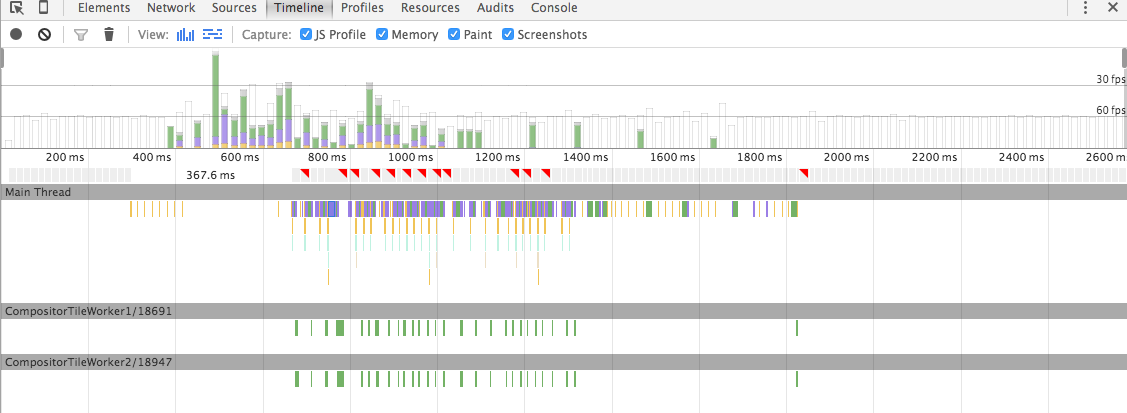
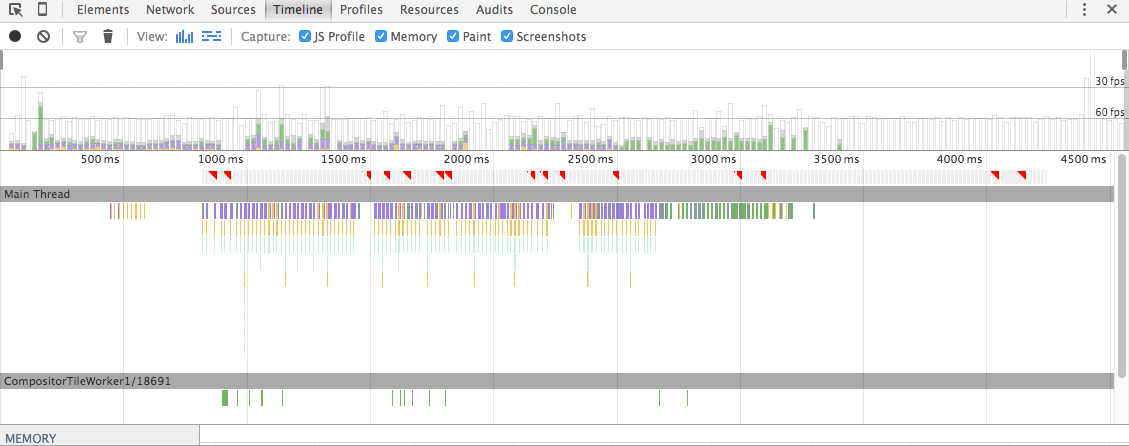
improve css and update result

Changed region(s): [[0.0, 0.0581, 1.0, 1.0], [0.0, 0.0, 0.528, 0.0291], [0.9317, 0.0, 0.9938, 0.0291]]

diff --git a/views/js/main.js b/views/js/main.js
@@ -1,3 +1,4 @@
+'use strict';
 /*
 Welcome to the 60fps project! Your goal is to make Cam's Pizzeria website run
 jank-free at 60 frames per second.
@@ -18,6 +19,8 @@ cameron *at* udacity *dot* com
 
 // As you may have realized, this website randomly generates pizzas.
 // Here are arrays of all possible pizza ingredients.
+
+
 var pizzaIngredients = {};
 pizzaIngredients.meats = [
   "Pepperoni",
@@ -470,8 +473,8 @@ var resizePizzas = function(size) {
 
 window.performance.mark("mark_start_generating"); // collect timing data
 
-// This for-loop actually creates and appends all of the pizzas when the page loads
 var pizzasDiv = document.getElementById("randomPizzas");
+// This for-loop actually creates and appends all of the pizzas when the page loads
 for (var i = 2; i < 100; i++) {
   pizzasDiv.appendChild(pizzaElementGenerator(i));
 }
@@ -530,10 +533,7 @@ document.addEventListener('DOMContentLoaded', function() {
   var cols = 8;
   var hgt = window.screen.height;
   var wid = window.screen.width;
-  console.log(hgt);
-  console.log(wid);
   var s = 256;
-  var cols = Math.ceil(hgt / s);
   var rows = Math.ceil(wid / s);
   var numberofPizzas = cols * rows;
   console.log("Generating " + numberofPizzas + " for background");

diff --git a/views/css/style.css b/views/css/style.css
@@ -33,6 +33,8 @@ form {
   position: fixed;
   width: 256px;
   z-index: -1;
+  transform: translateZ(0);
+  backface-visibility: hidden;
 }
 
 .randomPizzaContainer {

diff --git a/README.md b/README.md
@@ -15,5 +15,17 @@
 - move unchanged varialbes out of loops in changePizzaSizes()
 - move unchanged varialbes out of loops in updatePositions()
 - update jquery to use getelementbyid or getelementsbyclassname
+- update .mover css properties
 
 ![part2result](https://github.com/PhdDone/frontend-nanodegree-mobile-portfolio/blob/master/part2result.png)
+
+####References:
+https://developer.mozilla.org/en-US/docs/Web/CSS/transform
+
+http://blog.teamtreehouse.com/increase-your-sites-performance-with-hardware-accelerated-css
+
+https://css-tricks.com/almanac/properties/b/backface-visibility/
+
+http://designmodo.com/backface-visibility-css-animation/
+
+
